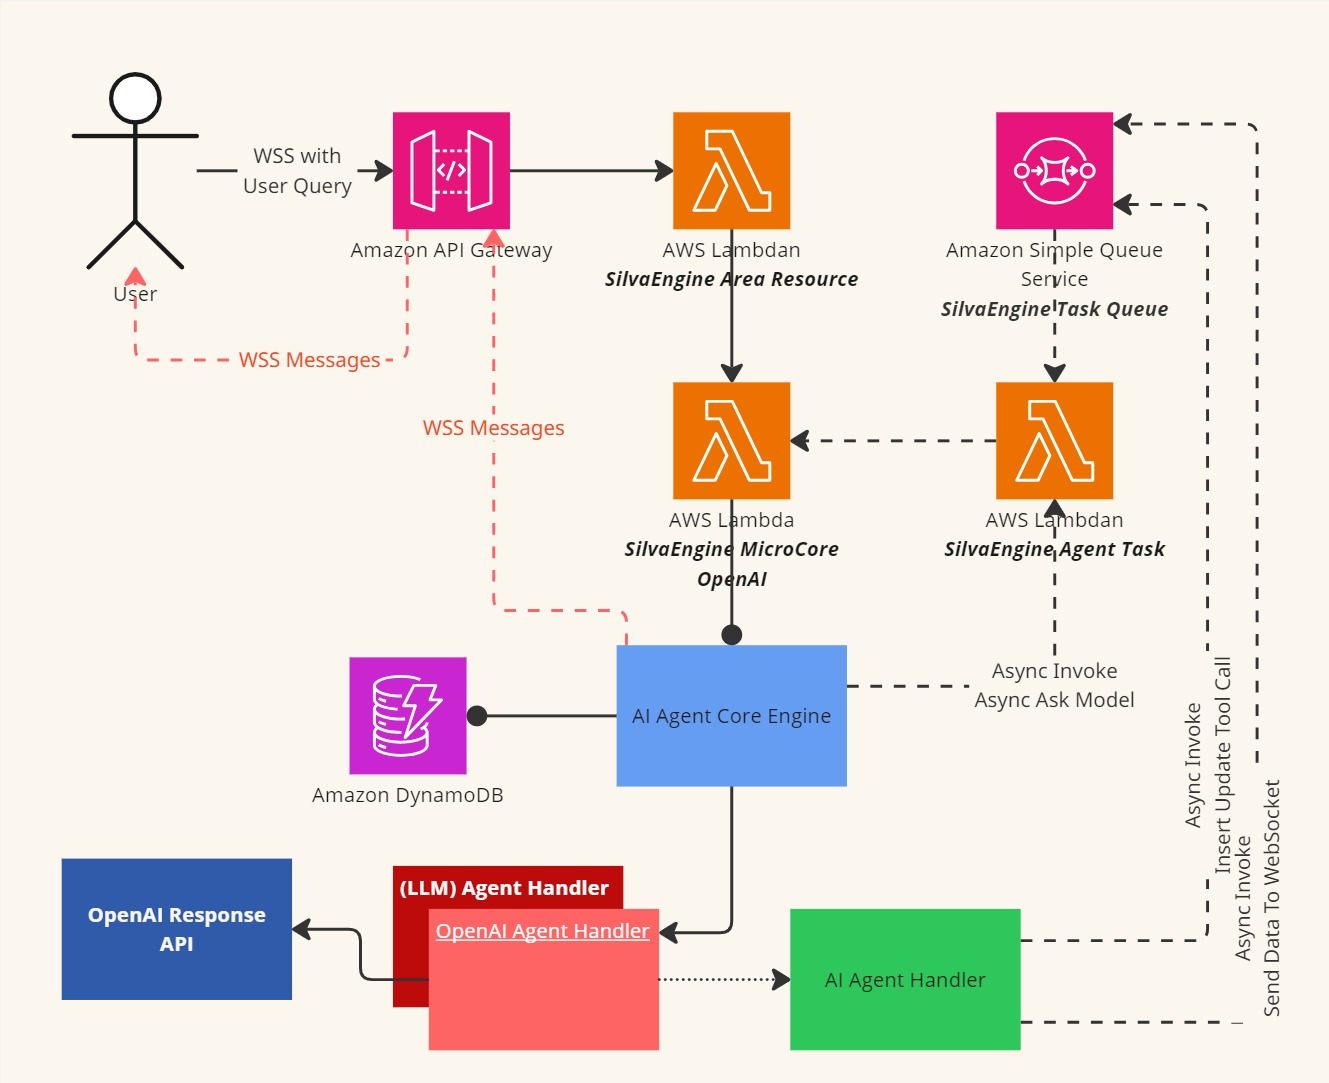
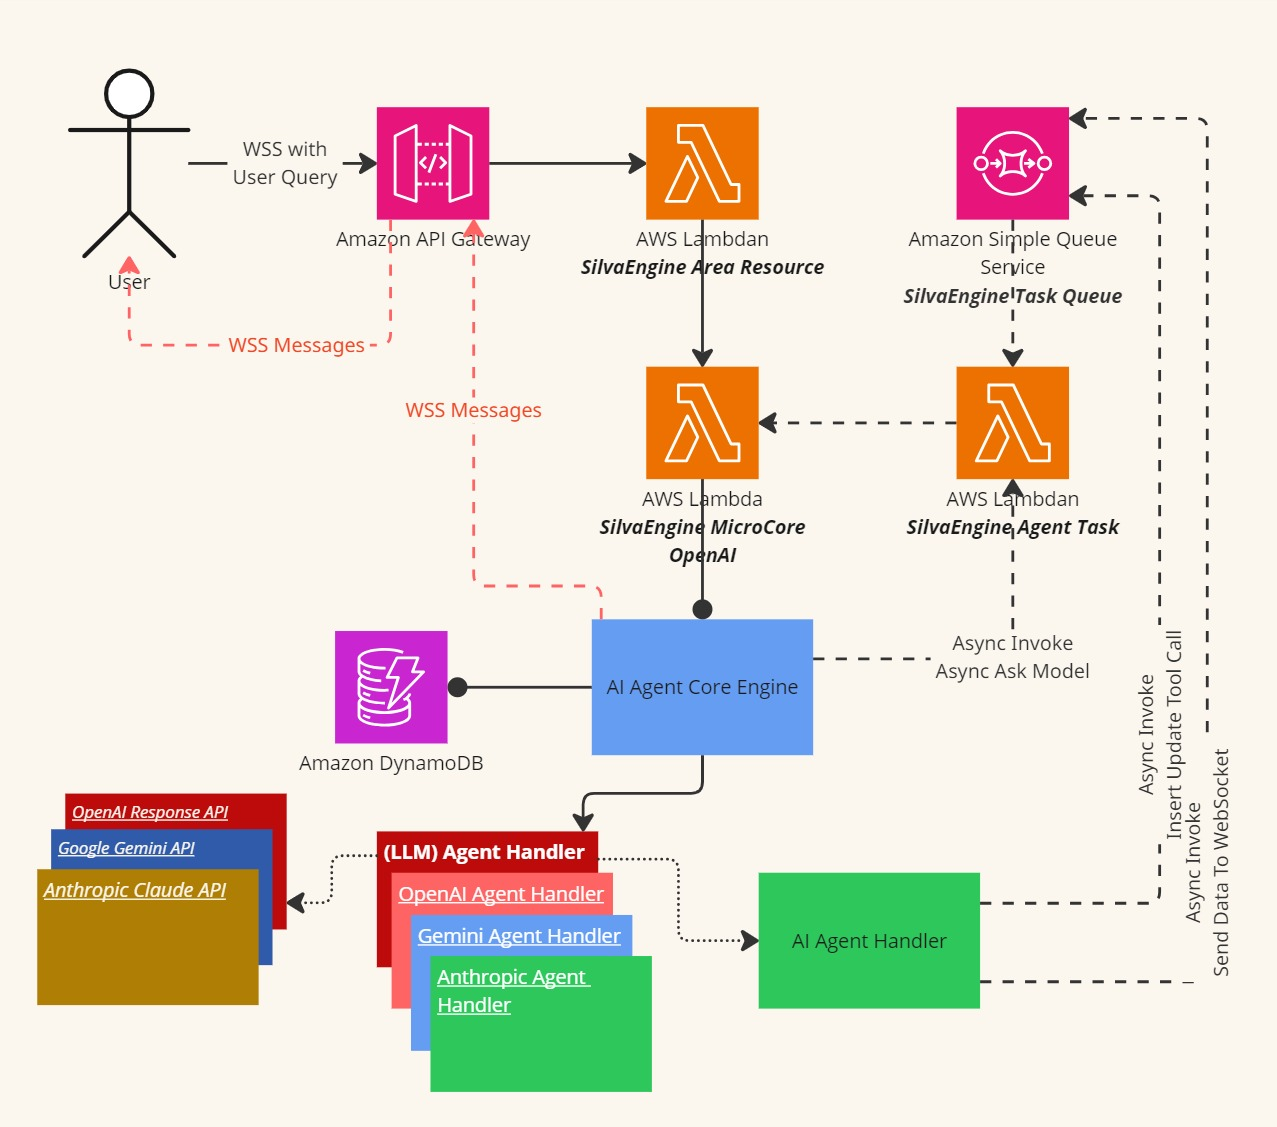
Update README.md.

diff --git a/README.md b/README.md
@@ -83,73 +83,76 @@ Designed to meet the needs of mission-critical applications, our platform embrac
 ### 🧠 **Stateless Multi-LLM AI Agent Core Engine — Architecture Overview**
 ![AI Agent Core Engine Architecture Diagram](/images/ai_agent_core_engine_architecture.jpg)
 
-This diagram illustrates a **serverless, stateless, and modular AI orchestration architecture** built on AWS, powered by **SilvaEngine** and capable of handling **real-time WebSocket-based user interactions** with **multi-LLM agent routing and execution**.
+This diagram showcases a **serverless, multi-LLM AI agent orchestration system** powered by **SilvaEngine**. It supports **real-time interactions over WebSocket**, integrates **multiple LLMs (OpenAI, Gemini, Claude)**, and executes tasks using **asynchronous Lambda functions and modular handlers**.
 
 ---
 
-#### 🔄 **End-to-End Flow Description**
+#### 🔄 **End-to-End Flow Description (Updated)**
 
-##### 1. **User Interaction (WebSocket Connection)**
+##### 1. **User Interaction (WebSocket Query)**
 
-* A **user** sends a query via **WebSocket (WSS)**.
-* The message is routed through **Amazon API Gateway**, which acts as the real-time entry point for WebSocket messages.
+* The **User** initiates a query via **WebSocket (WSS)**.
+* The query is routed through **Amazon API Gateway**, acting as a real-time interface for bidirectional communication.
 
-##### 2. **Request Routing and Task Queueing**
+##### 2. **Initial Message Routing**
 
-* The **API Gateway** forwards the incoming WebSocket message to an **AWS Lambda function** (`SilvaEngine Area Resource`).
-* This Lambda function handles **initial routing and validation**, then pushes the task to **Amazon SQS** (`SilvaEngineTask Queue`) for asynchronous processing.
+* API Gateway forwards the request to an **AWS Lambda** (`SilvaEngine Area Resource`) for validation, routing logic, and enqueueing.
+* The message is pushed to **Amazon SQS** (`SilvaEngineTask Queue`) for asynchronous, decoupled task execution.
 
-##### 3. **Agent Invocation via Lambda (Async Pattern)**
+##### 3. **Agent Task Execution (Async)**
 
-* Messages in the task queue are picked up by another **Lambda function** (`SilvaEngine Agent Task`), which:
+* **SilvaEngine Agent Task**, another Lambda function, dequeues the message and invokes:
 
-  * Performs **async tool calling**, **agent model invocation**, or **task execution**.
-  * Communicates with the **AI Agent Core Engine** to coordinate model interactions.
+  * Tool calling logic.
+  * AI agent orchestration.
+  * External function integrations.
 
-##### 4. **Core Agent Logic (Stateless AI Orchestration)**
+##### 4. **AI Agent Core Orchestration**
 
-* The **AI Agent Core Engine**:
+* The **AI Agent Core Engine** acts as the **stateless orchestrator**. Responsibilities include:
 
-  * Acts as the orchestrator of the stateless AI agent workflow.
-  * Retrieves context from **Amazon DynamoDB** (used for rolling memory).
-  * Sends the user's request to the appropriate **(LLM) Agent Handler**, based on model compatibility or routing logic.
+  * Managing **conversation context** using **Amazon DynamoDB**.
+  * Delegating the query to the appropriate **LLM Agent Handler** based on routing rules or model availability.
 
-##### 5. **Model-Specific Handler (e.g., OpenAI)**
+##### 5. **Multi-LLM Routing via Agent Handlers**
 
-* The **OpenAI Agent Handler**:
+* The platform supports multiple language models via **dedicated handlers**:
 
-  * Manages the request formatting and token control.
-  * Sends the query to the **OpenAI Response API**.
-  * Upon receiving the response, returns it to the **AI Agent Core Engine**.
+  * **OpenAI Agent Handler** → routes to **OpenAI Response API**
+  * **Gemini Agent Handler** → routes to **Google Gemini API**
+  * **Anthropic Agent Handler** → routes to **Anthropic Claude API**
 
-##### 6. **Final Response Handling**
+Each handler formats, sends, and processes responses independently, enabling **model-agnostic orchestration**.
 
-* The **AI Agent Handler** (green box) performs:
+##### 6. **Final AI Response Handling**
 
-  * **Final formatting**, **tool call updates**, or **agent behavior post-processing**.
-  * Initiates **async WebSocket responses** to send data back to the user via API Gateway.
+* The **AI Agent Handler** (green box) handles:
 
----
-
-#### 📦 **Key Components Explained**
-
-| Component                       | Description                                                                |
-| ------------------------------- | -------------------------------------------------------------------------- |
-| **Amazon API Gateway**          | Manages WebSocket communication with users in real time.                   |
-| **SilvaEngine Area Resource**   | Lambda handler for routing and preprocessing incoming WebSocket messages.  |
-| **SilvaEngineTask Queue (SQS)** | Queues tasks to decouple WebSocket events from processing logic.           |
-| **SilvaEngine Agent Task**      | Lambda that executes async tasks like tool calls or agent actions.         |
-| **AI Agent Core Engine**        | Stateless core orchestrator that controls context, logic, and LLM routing. |
-| **Amazon DynamoDB**             | Stores **rolling memory context** and metadata for agents.                 |
-| **OpenAI Agent Handler**        | Dedicated LLM wrapper to send/receive data from OpenAI API.                |
-| **AI Agent Handler**            | Handles the last mile — updates context, logs, or sends final responses.   |
+  * Response post-processing.
+  * Tool call updates.
+  * State updates and results formatting.
+  * Sends **WebSocket replies** to the user via the original API Gateway connection.
 
 ---
 
-#### 🔁 **Asynchronous & Modular Execution**
+#### 📦 **Key Component Updates**
 
-* All Lambda functions are **asynchronously invoked**, enabling **scalable execution without session locking**.
-* Tool calling, result updates, and responses are **decoupled and modular**, supporting dynamic task execution, retries, and model switching.
+| Component                        | Description                                                            |
+| -------------------------------- | ---------------------------------------------------------------------- |
+| **Gemini Agent Handler**         | Handles interaction with **Google Gemini API** for text generation.    |
+| **Anthropic Agent Handler**      | Sends queries to **Anthropic Claude API**, receives and parses output. |
+| **LLM Agent Handler Hub**        | Routes tasks to the correct model-specific handler.                    |
+| **SilvaEngine MicroCore OpenAI** | Lightweight Lambda core specifically for OpenAI-based tasks.           |
+
+---
+
+#### 🌐 **New Capabilities Highlighted**
+
+| Feature                    | Description                                                                         |
+| -------------------------- | ----------------------------------------------------------------------------------- |
+| **True Multi-LLM Support** | Unified engine dynamically selects and communicates with OpenAI, Gemini, or Claude. |
+| **Modular Handler Layer**  | Handlers for each model can be independently managed, scaled, or extended.          |
+| **Extensible Backend**     | Easily add future models or vendors by plugging in new handler modules.             |
 
 ---
 
